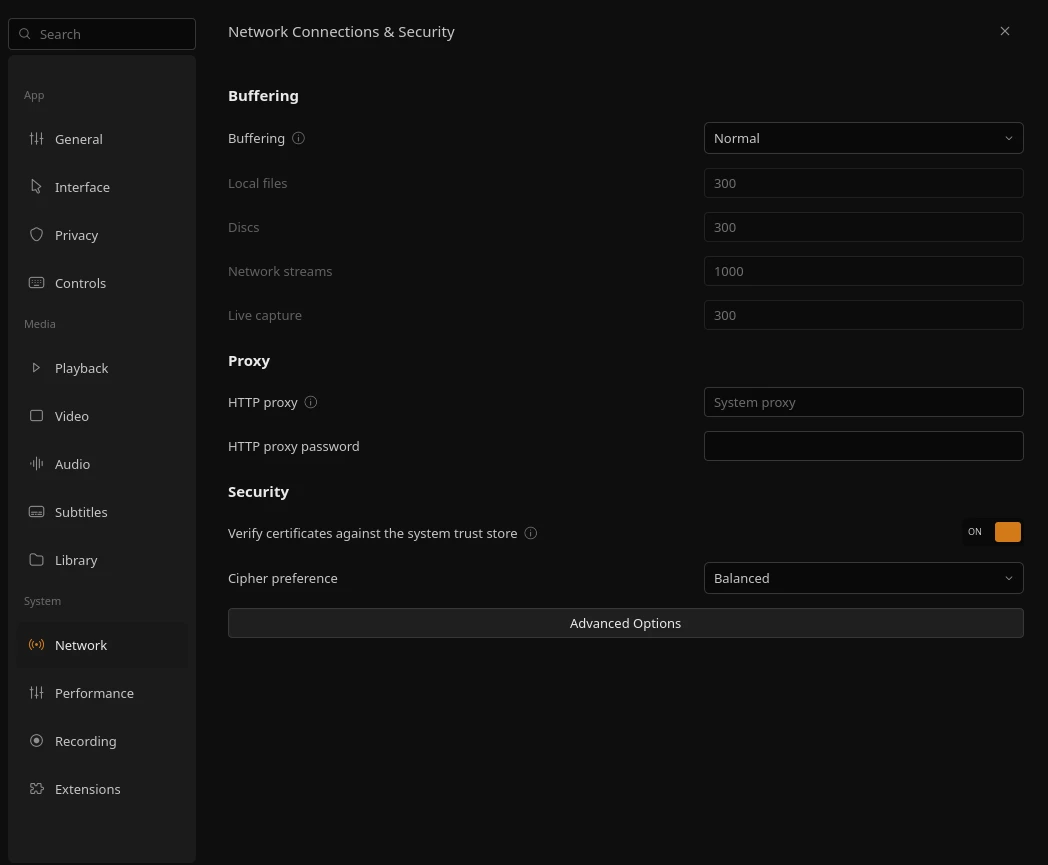
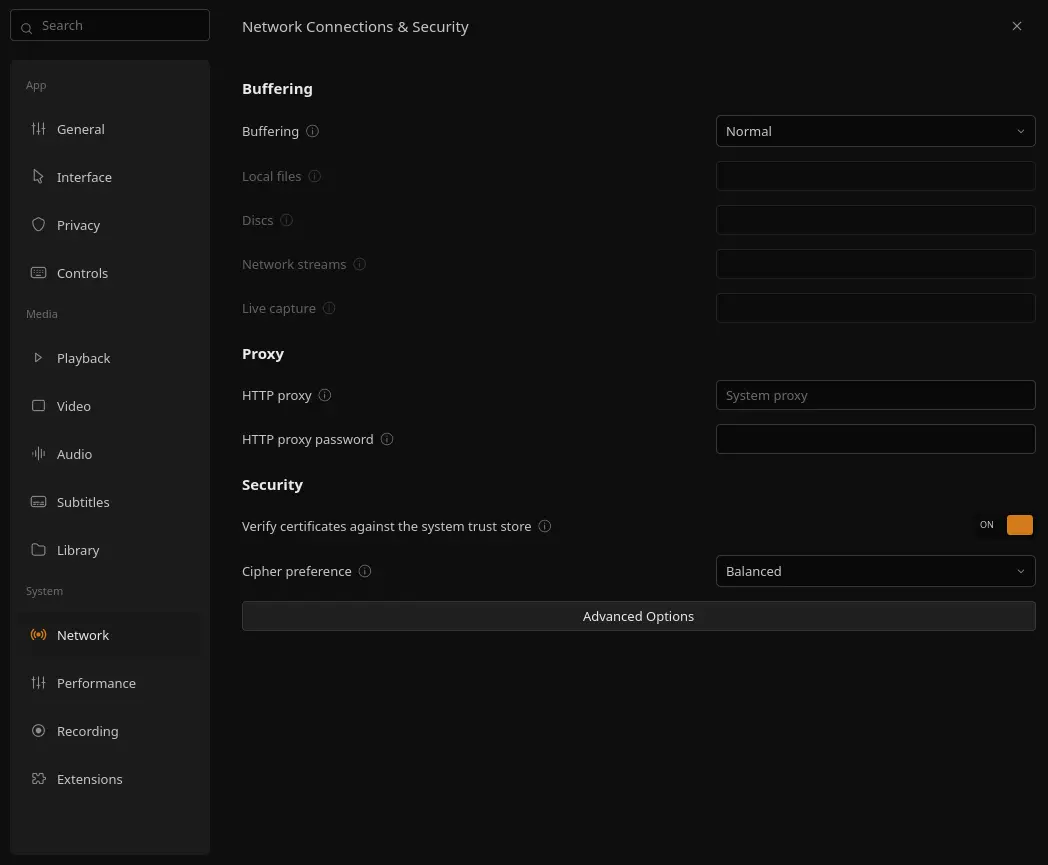
fix: match network buffering fields to Figma

diff --git a/qml/SettingsDialog.qml b/qml/SettingsDialog.qml
@@ -2083,10 +2083,10 @@ Modal {
                             onPicked: (value) => root.setBufferingProfile(value)
                         }
                     }
-                    VlcOption { option: "file-caching"; kind: "number"; fieldWidth: 320; label: "Local files"; enabled: root.bufferingProfile === "Custom"; onOptionSaved: root.markCustomBuffering() }
-                    VlcOption { option: "disc-caching"; kind: "number"; fieldWidth: 320; label: "Discs"; enabled: root.bufferingProfile === "Custom"; onOptionSaved: root.markCustomBuffering() }
-                    VlcOption { option: "network-caching"; kind: "number"; fieldWidth: 320; label: "Network streams"; enabled: root.bufferingProfile === "Custom"; onOptionSaved: root.markCustomBuffering() }
-                    VlcOption { option: "live-caching"; kind: "number"; fieldWidth: 320; label: "Live capture"; enabled: root.bufferingProfile === "Custom"; onOptionSaved: root.markCustomBuffering() }
+                    VlcOption { option: "file-caching"; kind: "number"; fieldWidth: 320; label: "Local files"; enabled: root.bufferingProfile === "Custom"; hideValueWhenDisabled: true; onOptionSaved: root.markCustomBuffering() }
+                    VlcOption { option: "disc-caching"; kind: "number"; fieldWidth: 320; label: "Discs"; enabled: root.bufferingProfile === "Custom"; hideValueWhenDisabled: true; onOptionSaved: root.markCustomBuffering() }
+                    VlcOption { option: "network-caching"; kind: "number"; fieldWidth: 320; label: "Network streams"; enabled: root.bufferingProfile === "Custom"; hideValueWhenDisabled: true; onOptionSaved: root.markCustomBuffering() }
+                    VlcOption { option: "live-caching"; kind: "number"; fieldWidth: 320; label: "Live capture"; enabled: root.bufferingProfile === "Custom"; hideValueWhenDisabled: true; onOptionSaved: root.markCustomBuffering() }
                     SectionTitle { text: "Proxy" }
                     VlcOption { option: "http-proxy"; kind: "text"; fieldWidth: 320; label: "HTTP proxy"; placeholderText: "System proxy"; info: "Enter http://host:port or host:port. For authentication, include the username here and enter its password below. Leave blank to use the system proxy." }
                     VlcOption { option: "http-proxy-pwd"; kind: "text"; fieldWidth: 320; label: "HTTP proxy password"; info: "Password used to authenticate with the HTTP proxy. Enter the matching username in the HTTP proxy address field."; secret: true }

diff --git a/qml/VlcOption.qml b/qml/VlcOption.qml
@@ -17,6 +17,7 @@ SettingRow {
     property bool allowDecimal: false
     property bool showScale: false
     property bool secret: false
+    property bool hideValueWhenDisabled: false
     signal optionSaved(var value)
     property real sliderMin: 0
     property real sliderMax: 100
@@ -24,6 +25,7 @@ SettingRow {
     property var current: player.config(option)
     optionDescription: player.configDescription(option)
     readonly property string displayValue: {
+        if (hideValueWhenDisabled && !enabled) return ""
         if (current === undefined) return ""
         let value = String(current)
         if (kind === "number" && allowDecimal) {

diff --git a/docs/figma-parity.md b/docs/figma-parity.md
@@ -79,7 +79,7 @@ The video canvas background uses Figma charcoal `#2C2B29` in both themes. Video 
 | **Settings - subtitles** — `3180:17989`, `6536:13908` | Subtitle enablement, language and encoding, file matching, font, relative/pixel sizing, text color/opacity, outline and shadow. | `SettingsDialog.qml` page `subtitles` follows the Figma sections for tracks/languages and appearance. The preference card uses the Figma's 14 px horizontal and 8/16 px vertical frame insets, 14 px corner radius and dark translucent surface. Navigation and setting fields align to the reference frame width. `VlcOption.qml` maps hex color fields, opacity sliders, bold, outline thickness, shadow and size mode to actual VLC config values. Switching between relative and pixel sizes retains the last pixel value in app settings. The encoding menu now includes all choices reported by the installed VLC build, including `Shift_JIS` and `Windows-1258`. Advanced VLC background and shadow controls remain available. The OpenSubtitles API-key section follows the Figma-matched Appearance controls, preserving their order and visible area; the compact preferences window scrolls its category navigation and stacks the key controls to avoid overlap. The desktop key field, Save and Remove controls have non-overlapping layout and accessible names. **Implemented.** | Smoke checks frame insets at two window sizes, folder matching, active subtitles, saved timeline style, available subtitle option types, hex color parsing/formatting, relative/pixel switching and restoration, VLC config round trips for encoding, color, bold and opacity, persistence after a VLC relaunch, and captures the subtitles page at the exact 1048×865 Figma frame size; the current comparison image is `docs/screenshots/settings-subtitles.webp`. A separate 720×560 capture verifies the compact layout in [`settings-subtitles-compact.webp`](screenshots/settings-subtitles-compact.webp). The latest cross-distro CI smoke run passed on Arch and Mint, including the API-key geometry assertion. | The refreshed 1048×865 subtitle capture is checked against both nodes `6536:13908` and `3180:17989`; the full Appearance section now occupies the Figma-matched position before the additional OpenSubtitles key setup. Font, relative sizing, text opacity, outline and shadow rows align. The encoding list was compared with `vlc --longhelp --advanced` on the installed VLC build and updated to all 43 reported choices. The 720×560 capture confirms the stacked API-key controls and compact frame; category navigation and settings content use separate scroll areas. The custom OpenSubtitles key editor is not present in this Figma frame; its section follows the Figma content and is covered by an explicit order assertion. It uses the standard settings-field alignment, a primary Save key action below the field and a secondary Remove key action; desktop and compact geometry are covered by focused checks. |
 | **Settings - controls** — `6536:14482` | Keyboard shortcut discovery/editing, skip amounts, mouse and remote behavior. | `SettingsDialog.qml` page `controls`, `ShortcutsDialog.qml`, `Main.qml`, `NeoTheme.qml`. The page follows the Figma grouping, including reset and edit actions. It maps Figma's vertical/horizontal scroll, reverse direction, four skip amounts and web-remote enable/port to VLC options. Skip values use 320 px fields and show seconds units; the edit/reset buttons and mouse/scroll selectors use the same Figma control width. Keyboard seek steps read VLC's configured jump sizes; video click and double-click actions have saved choices. Neo's displayed shortcuts can be reassigned with conflict rejection, persist across launches, run their mapped action and reset to defaults. The dialog includes all 111 local and all 111 global VLC 3 core hotkey options and restores their values captured at the first opening; it scrolls and switches to one column in narrow windows. The Web remote switch enables VLC's HTTP interface through `extraintf`; VLC loads it after restart. **Partial.** | Smoke verifies available VLC options and round trips, configured jump sizes, Figma field widths and skip units, captures both the controls page and shortcut editor, assigns Neo, local VLC and global VLC shortcuts, checks their persistence/reset behavior, rejects conflicts, and covers keyboard seeking and popup dismissal. VLC Neo saved `extraintf`, HTTP host, port and password through its config API in an isolated profile. A second VLC launch with no HTTP command-line flags served the remote page; the configured password returned HTML and a request without credentials returned HTTP 401.| The saved [`settings-controls.webp`](screenshots/settings-controls.webp) is cropped from the actual SettingsDialog at exactly 1048×865 (window 1076×889, dialog origin 14×8), then compared with Figma node `6536:14482`; category alignment, section spacing, control widths and placement match. X11 `XF86AudioPlay`, `XF86AudioPause` and `XF86AudioNext` events were sent to the focused VLC Neo window; matching Qt key-event checks cover Previous, Stop and toggle behavior. The remote page and password behavior were checked locally. An X11 run under Xvfb/Metacity delivered real vertical and horizontal wheel events to the player: Seek moved by the configured 3-second step, reversed mode moved backward by 3 seconds, and volume stayed unchanged. The same run verified video click toggles playback and double-click enters and exits fullscreen. A Ctrl+wheel X11 run confirmed those events reach VLC's configured subtitle-size hotkeys (100→110→100); unmodified wheel behavior remains mapped to Neo's selected scroll mode. All 111 local action labels were checked against this VLC build's hotkey descriptions; the 360° field-of-view labels, one-pixel crop labels, sync-reset label, and repeat label now match the documented actions. Runtime Ctrl+wheel confirms subtitle-scale up/down behavior despite the installed help text describing those two bindings in reverse. Remaining check: verify remote access from another device on the intended network. |
 | **Settings - library** — `6542:15251` | Folder/file opening rules, hidden files, metadata and artwork. | `SettingsDialog.qml` page `library`, `LibraryPanel.qml`, `NeoTheme.qml`. Opening behavior maps to VLC's single-instance, enqueue and recursion options. The file-manager-only option disables and dims itself when single-instance mode is off, matching the Figma dependency while preserving its saved VLC value. VLC 3's `recursive` option sets the preparse depth of child items (`none`: 0, `collapse`: 1, `expand`: unlimited); it does not change Neo's recursively populated folder browser or library index. Hidden files update the folder browser immediately; metadata/artwork lookup maps to VLC's network access setting, shared with Privacy, and media-library access maps to VLC's core option. The setting description distinguishes VLC's online lookup from Neo's local scan, which reads embedded tags and local cover art. Ignored extensions, pinned folders and playlist-tree behavior remain available under Advanced. Pinned folders can be added from the folder sidebar, then opened from the Home library sidebar; that pin control was previously hidden because the panel always set `wide: true`. **Partial.** | Smoke checks the dependent file-manager option's enable/dim state and saved-value preservation, option round trips through the visible controls for all three recursion choices and metadata-network access, then verifies they persist after relaunch. A nested-video fixture two folders deep is indexed and visible in Neo's Videos catalog with each VLC recursion value (`none`, `collapse`, `expand`), confirming VLC's preparse setting does not restrict Neo's library scan. It also checks the Figma page title and hidden-file filtering both off and on. The Library capture sets the visible options to the Figma state (all folder-opening switches OFF, “Include subfolders”, local-only metadata and media library ON) and asserts the exact “Opening Files” and “Include subfolders” labels. The folder-pin flow clicks the actual pin control, opens the pinned row from Home, relaunches VLC to verify persistence, and clears the test pin.| Compared refreshed `settings-library.webp` with node `6542:15251` in the authenticated browser at 1048×865: opening-rule order, values and control placement align, including the dimmed OFF file-manager option when single-instance mode is OFF. The “Opening Files” heading and “Include subfolders” choice match Figma exactly. Pinned-folder navigation, relaunch persistence, the option dependency and preference-control round trips are verified. VLC 3.0 maps `recursive` to the active item’s preparse depth (`none`: 0, `collapse`: 1, `expand`: unlimited) in its [input implementation](https://github.com/videolan/vlc-3.0/blob/master/src/input/input.c). A targeted real-VLC folder playback check produced the same visible nested-media queue for all three values, so it does not prove the internal preparse-depth effect; that behavior remains open. Neo's independent library scan finds the same nested video under every setting. Live VLC metadata/artwork lookup during playback also remains open; Neo's local library intentionally uses embedded tags and local cover art. |
-| **Settings - network** — `6543:15649` | Buffering profiles and per-source caches, proxy credentials, system certificate trust and cipher preference. | `SettingsDialog.qml` page `network`, `VlcOption.qml`. The title and section order match the Figma frame. Normal/latency profiles set VLC's file, disc, network and live caches and immediately refresh the disabled cache fields; Custom enables direct cache editing. On Linux, VLC 3 marks its `http-proxy` config options obsolete; VLC Neo translates the saved HTTP proxy URL and password into the process-local `http_proxy` and `https_proxy` environment variables that VLC consumes. Clearing the field restores the inherited system proxy environment. Certificate trust and cipher preferences remain VLC GnuTLS options. SOCKS, connection timeout, reconnect, MTU and network sync remain under Advanced. **Partial.** | Smoke checks installed option names, buffering profile values and displayed/disabled cache fields, Simple/Advanced visibility, proxy credential and TLS value round trips, and captures the page with the Normal profile selected. A local HTTPS integration test checks rejection of an unknown CA, playback using the configured trust directory, and the actual GnuTLS cipher-priority effect against a TLS 1.2 server limited to AES-128. A local HTTP proxy integration test opens an MP4 through a custom proxy after a runtime preference change, verifies that clearing the preference restores the inherited proxy, and records the absolute URL received by each proxy. A local Basic-auth proxy confirms VLC 3.0.20 retries the 407 challenge with the configured credentials, but VLC then aborts before opening the media with `cannot seek (to offset 0)`. This reproduces with both a correct 206 Content-Range response and a full 200 response; authenticated playback remains open. VLC 3.0.21's [upstream release notes](https://github.com/videolan/vlc/blob/master/NEWS) add HTTP content-range handling under RFC 9110; this may explain the failure, but authentication must be retested on that version before attributing the fix.| The saved [`settings-network.webp`](screenshots/settings-network.webp) is cropped from the actual SettingsDialog at exactly 1048×865 (window 1076×889, dialog origin 14×8) and was compared with node `6543:15649`; custom and inherited proxy playback were verified locally, and the HTTP proxy URL/password now persist across two Neo launches through PlayerStateStore because VLC 3 marks those options obsolete on non-Windows builds ([VLC 3.0 declarations](https://github.com/videolan/vlc-3.0/blob/master/src/libvlc-module.c#L1647-L1655)). A local HTTP/1.0 and HTTP/1.1 Basic-auth proxy both confirm VLC 3.0.20 sends the configured credentials after a 407, then fails before playback with `cannot seek (to offset 0)`; the same happens with 206 range and full 200 responses. The VLC 3.0.21 release notes add HTTP content-range handling, so rerun the authenticated proxy fixture on 3.0.21+ to verify whether it resolves the failure. On 2026-10-21, VLC Neo played the MDN CC0 flower MP4 over HTTPS with system trust enabled. The local fixture separately validates the configured trust directory and cipher-strength setting. |
+| **Settings - network** — `6543:15649` | Buffering profiles and per-source caches, proxy credentials, system certificate trust and cipher preference. | `SettingsDialog.qml` page `network`, `VlcOption.qml`. The title and section order match the Figma frame. Normal/latency profiles set VLC's file, disc, network and live caches while leaving the disabled cache fields visually blank, as in Figma; the values remain stored in VLC and Custom shows them for direct editing. On Linux, VLC 3 marks its `http-proxy` config options obsolete; VLC Neo translates the saved HTTP proxy URL and password into the process-local `http_proxy` and `https_proxy` environment variables that VLC consumes. Clearing the field restores the inherited system proxy environment. Certificate trust and cipher preferences remain VLC GnuTLS options. SOCKS, connection timeout, reconnect, MTU and network sync remain under Advanced. **Partial.** | Smoke checks installed option names, buffering profile values and displayed/disabled cache fields, Simple/Advanced visibility, proxy credential and TLS value round trips, and captures the page with the Normal profile selected. A local HTTPS integration test checks rejection of an unknown CA, playback using the configured trust directory, and the actual GnuTLS cipher-priority effect against a TLS 1.2 server limited to AES-128. A local HTTP proxy integration test opens an MP4 through a custom proxy after a runtime preference change, verifies that clearing the preference restores the inherited proxy, and records the absolute URL received by each proxy. A local Basic-auth proxy confirms VLC 3.0.20 retries the 407 challenge with the configured credentials, but VLC then aborts before opening the media with `cannot seek (to offset 0)`. This reproduces with both a correct 206 Content-Range response and a full 200 response; authenticated playback remains open. VLC 3.0.21's [upstream release notes](https://github.com/videolan/vlc/blob/master/NEWS) add HTTP content-range handling under RFC 9110; this may explain the failure, but authentication must be retested on that version before attributing the fix.| The saved [`settings-network.webp`](screenshots/settings-network.webp) is cropped from the actual SettingsDialog at exactly 1048×865 (window 1076×889, dialog origin 14×8) and was compared with node `6543:15649`; custom and inherited proxy playback were verified locally, and the HTTP proxy URL/password now persist across two Neo launches through PlayerStateStore because VLC 3 marks those options obsolete on non-Windows builds ([VLC 3.0 declarations](https://github.com/videolan/vlc-3.0/blob/master/src/libvlc-module.c#L1647-L1655)). A local HTTP/1.0 and HTTP/1.1 Basic-auth proxy both confirm VLC 3.0.20 sends the configured credentials after a 407, then fails before playback with `cannot seek (to offset 0)`; the same happens with 206 range and full 200 responses. The VLC 3.0.21 release notes add HTTP content-range handling, so rerun the authenticated proxy fixture on 3.0.21+ to verify whether it resolves the failure. On 2026-10-21, VLC Neo played the MDN CC0 flower MP4 over HTTPS with system trust enabled. The local fixture separately validates the configured trust directory and cipher-strength setting. |
 | **Settings - performance** — `6571:15958` | Hardware decoding, post-processing, frame dropping, priority and advanced decoder settings. | `SettingsDialog.qml` page `performance`, `VlcOption.qml`. The page follows the Figma Decoding, Smooth Playback and Developer groups. Hardware decoding uses the installed VLC choices; post-processing, H.264 loop-filter skipping and thread count map to VLC. Frame dropping, real-time priority, process priority and plugin-cache rescan are wired. Developer controls expose encoder/decoder preference, clock synchro/jitter/averaging; advanced controls expose decoder tuning and stream-transcode worker settings. **Implemented.** | Smoke checks option availability, Simple/Advanced visibility, config round trips and plugin-cache rescan, and captures the page. It also writes `avcodec-hw=none`, restarts VLC, confirms the value is restored, and plays a video using software decoding.| The 1048×865 capture was visually compared with node `6571:15958`; category order, full-width Advanced Options row and control placement align. A real-VLC relaunch check saves and restores `avcodec-hw=none` and confirms that VLC plays the H.264 fixture with software decoding. |
 | **Settings - recording** — `6571:16429` | Recording destination, casting and stream output options. | `SettingsDialog.qml` page `recording`, `Main.qml`, `VlcTasks`, `StreamDialog.qml`, `Player`, and VLC renderer discovery. Recording folder, native-format preference, Chromecast conversion quality, local stream playback, audio/video/subtitle inclusion and H.264 preset map to options exposed by the installed VLC. The Figma device-discovery switch starts VLC renderer-discovery modules; each discovered device is listed with its Chromecast or DLNA protocol as a small secondary label and is selectable through VLC's playlist renderer API. Advanced transcoding codec/bitrate/frame-rate/sample-rate and manual Chromecast target options are hidden in Simple mode. **Partial.** VLC renderer discovery and selection are connected to VLC. The Cast dialog now treats the selected Chromecast status `Connected` as a successful handoff, as well as active DLNA `Playing`/`Paused` states; a focused real-VLC regression covers these states. Playback to a physical Chromecast remains unverified. | Smoke verifies the settings page against installed VLC option types, Simple/Advanced visibility and value round trips. It also verifies renderer-discovery module availability, start/stop lifecycle, QML device model and cleanup. Recording is toggled both with and without a selected subtitle track; each output is checked for playable H.264/AAC media. In VLC 3.0.20, the recorded MP4 does not retain the subtitle as a separate stream. The stream process passes the Include subtitles setting and either the selected local subtitle file or the selected embedded track ID to VLC, then muxes it as DVB subtitles. Conversion formats and UDP/RTP/HTTP stream outputs are exercised through VLC.| The 1048×865 page capture was visually compared with node `6571:16429`; section order, field widths and the Advanced Options row align. The smoke confirms that VLC records audio/video while a subtitle track is selected; ffprobe confirms H.264/AAC output. The recorder does not retain the subtitle track in its MP4. The stream path forwards the selected external subtitle file or selected embedded subtitle track ID when the VLC Include subtitles preference is enabled; the smoke captures both UDP MPEG-TS outputs and verifies their `dvb_subtitle` streams with ffprobe. Renderer discovery and selection are wired to VLC. A real Hisense DLNA receiver now accepted the session control path through `Playing` and `Stopped`; its visible video output still needs receiver-side confirmation, and Chromecast playback remains unverified. |
 | **Settings - extensions** — `6575:17137` | Browse, add/remove and discover VLC add-ons. | `SettingsDialog.qml` page `extensions`, `Player` facade and VLC's add-ons manager. The 184 px catalog panel matches the Figma layout. The row below it uses the Figma 180 px search, 160 px Find, and 86 px Add and Remove controls. Selecting an entry enables VLC-backed install/removal; Add opens the `.vlp` picker when no installable catalog entry is selected. Results filter by name/summary and discovery uses VLC's `repo://` finder. The Figma startup switch maps directly to VLC's `qt-autoload-extensions` boolean, which persists through VLC configuration. **Partial.** | Smoke checks page title, catalog/search order, control widths, the startup option type and switch visibility, exact 1048×865 dimensions and captures `docs/screenshots/settings-extensions.webp`. Smoke reads, toggles and relaunches `qt-autoload-extensions` through the visible switch. The extension action UI reports queued, in-progress, successful and failed VLC manager operations; the smoke exercises those UI states with injected operation results. The VLC add-ons endpoint now loads 113 catalog entries. A focused real-VLC test toggled `qt-autoload-extensions` off, relaunched Neo and confirmed it persisted, then restored it to on; the refreshed 1048×865 screenshot shows the enabled switch beside the populated catalog. A standard UUID parser rejected VLC's documented 8-6-4-4-10 identifier groups; the parser now follows VLC's format and has a unit test. The downloaded Advantage.VLC `.vlp` is a valid ZIP containing `manifest.xml`, but the installed VLC 3.0.20 also fails to open its `file:///…vlp#!/manifest.xml` entry in an isolated core-only probe: the archive directory extractor lists the package while the nested stream-extractor path falls through to VLC’s BitTorrent extractor and fails before the add-on manifest parser runs; this matches the [VLC 3.0 repository retrieval path](https://github.com/videolan/vlc/blob/3.0.x/modules/misc/addons/vorepository.c#L359-L469) and its [libarchive stream extractor](https://github.com/videolan/vlc/blob/3.0.x/modules/stream_extractor/archive.c#L447-L490). No add-on was installed on VLC 3.0.20. An isolated VLC Neo run with a valid, harmless `.vlp` now surfaces “VLC could not read or find an installable add-on in the selected package.” rather than the generic catalog-unavailable status; the focused run reproduces the VLC archive-stream-extractor failure. When VLC discovers a new manageable entry from a local package, Neo now dispatches that UUID through VLC’s add-on install API instead of reporting the package as merely loaded; focused real-VLC QML checks verify that known, unmanageable and already-installed entries are skipped and a newly discovered installable entry is dispatched. The installed VLC 3.0.20 still fails before discovery on the harmless package, so successful installation from a `.vlp` remains unverified. Successful installation/removal and Lua activation still need a VLC build that can read this package.| Compared the refreshed 1048×865 local capture with node `6575:17137` in the authenticated `browser` tab. The catalog panel and search/action widths align; the local startup row matches the Figma layout and uses a live Neo control backed by VLC’s `qt-autoload-extensions` option. The catalog is reachable again and lists 113 entries. Retest install/remove against a package VLC can extract, then verify Lua activation from a real `.vlp`. |
@@ -232,3 +232,5 @@ Cross-distro CI follow-up (2026-10-29): run [`40802485745`](https://github.com/a
 Renderer availability recheck (2026-10-29): on Wi-Fi interface `wlo1`, the first Avahi and SSDP checks found no renderers. A later directed SSDP query identified a Hisense TV advertising `urn:schemas-upnp-org:device:MediaRenderer:1`; its device description reports manufacturer `SmartTV` and model `Renderer`. A real VLC Neo offscreen session discovered that device, selected it while an 18-second local H.264/AAC fixture was loaded, reached renderer status `Playing` after issuing Play, then issued Stop and disconnected. The test script's pause step used a nonexistent `player.pause()` QML method, so it did not verify physical pause/seek; a second session ran after the TV had stopped responding to discovery and therefore only exercised local playback. No screenshot or receiver-side media GET was captured, so visible video remains unconfirmed. Chromecast/AirPlay Avahi discovery remained empty.
 
 Latest cross-distro CI result (2026-10-29): run [`40811644836`](https://github.com/alexandreolives/vlc-neo/actions/runs/40811644836) for `8d6382f` passed on both Arch and Linux Mint. Each job passed 13/13 CTests, all option-mapping and persistence audits, filter and waveform checks, the 110-item library, the 50,000-row asynchronous search and 849/849 smoke assertions. The updated subtitle geometry/order assertions passed on both distributions. The search returned one exact row in 148 ms on Arch and 123 ms on Mint; the setter took 0 ms on each. Both systems rendered 88/88 visible list thumbnails; Mint install/uninstall verification passed without changing system Qt or its VLC desktop entry.
+
+Network cache-field visual follow-up (2026-10-29): comparison with Figma node `6543:15649` found Normal displayed the four saved cache values even though Figma shows blank disabled fields. `VlcOption` now supports opt-in value hiding for disabled controls; the four cache fields use it, while the underlying VLC settings remain intact and reappear in Custom. A focused real-VLC offscreen run verified all four blank values in Normal and all four saved values in Custom. The 1048×865 capture at [`settings-network.webp`](screenshots/settings-network.webp) was refreshed from the Normal state.
